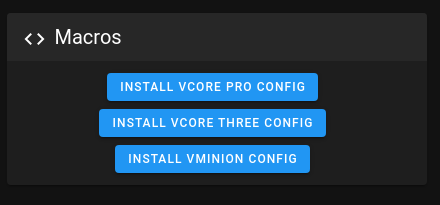
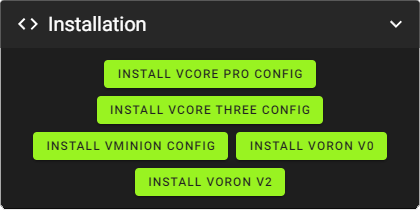
Docs: Update installation and configuration

diff --git a/site/docs/configuration.md b/site/docs/configuration.md
@@ -11,33 +11,33 @@ RatOS only needs minimal configuration to work, but comes with a lot of optional
 
 Once you have completed the initial [setup](installation) and opened [http://RatOS.local/](http://RatOS.local/) in your browser, you are almost ready to print. There's a just a few things to go over to make sure the configuration matches your particular setup.
 
-## Mainsail
-
-Mainsail is the control interface for your printer. Mainsail is a web application that talks to Klipper through Moonraker (the Klipper API). Mainsail is what you'll be using to start prints, monitor progress, configure klipper and much more. Mainsail is what you see when you open [http://RatOS.local/](http://RatOS.local/);
-
-![Mainsail](/img/mainsail.png)
-
-:::info
-To learn more about mainsail, [read the mainsail documentation](https://docs.mainsail.xyz/).
-:::
-
 ## Initial Configuration
 
-On the dashboard of Mainsail you'll see 3 macros in the Macros section.
+On the dashboard of Mainsail you'll see a macro group called "Installation", which consists of buttons that will install a specific printer configuration when you click them.
 
 ![Initial Config Macros](/img/initial-macros.png)
 
 Click on the button that corresponds to your printer to install the configuration.
 
 :::tip
-If you accidentally clicked the wrong button you can install another printer config by copying the contents of the template found in `config/templates/` and pasting it into printer.cfg.
+If you accidentally clicked the wrong button you can install another printer config by copying the contents of the template found in `config/templates/` and pasting it into printer.cfg. You can also do this to reset your configuration to the latest template file.
+:::
+
+:::tip Don't freak out if you get errors
+At this point we haven't told klipper anything about our hardware, if you're not using the default control board for your particular config, you'll get an MCU error. This is normal, continue below.
 :::
 
 Now navigate to the `Machine` page in Mainsail (the webinterface you just opened in your browser), there's a list of files, among them is `printer.cfg`. Right click it and choose "Edit". This is where your klipper configuration lives. As you can see, it's prepopulated with all you need to get your printer up and running quick and easy. **Follow the instructions in the file to make sure the configuration matches your setup.**
 
+:::info Are you still getting errors?
+If you're getting errors after going through printer.cfg, you either messed up the syntax (like, missing a `[section header]`), or your wiring isn't correct. If you get any MCU errors, turn off your MCU and go over your wiring again, you may be shorting something. **You already verified that your board is working and connecting when you flashed it in the RatOS configurator**.
+:::
+
 ## Verify Stepper Directions
 
-!> Do NOT use RatOS with other than stock steppers. If you are using different steppers please make sure to check their rating, and configure their currents accordingly ([see Includes & Overrides](#includes-amp-overrides)).
+:::caution Only use supported steppers
+Do NOT use RatOS with other than supported steppers (will be listed in printer.cfg). If you are using different steppers please make sure to check their rating, and configure their currents accordingly ([see Includes & Overrides](#includes-amp-overrides)).
+:::
 
 Make sure your steppers are running in the correct direction. To do this, center all your axes by moving the carriage and bed manually, then type `SET_CENTER_KINEMATIC_POSITION` in the console. You can now use the Mainsail controls to move the axes. Check that your bed moves down when Z is **increased**. By default, the Z controls in the Mainsail interface will increase Z when you click the up arrow. This will lower the bed on a CoreXY machine with a moving bed such as the V-Core 3, and raise the X gantry on a bedslinger such as the V-Minion or V-Cast. If your bed does not move down (or your x gantry doesn't raise) when you click the up arrow, change the direction of your Z steppers in printer.cfg. There's instructions on how to do that at the top of printer.cfg.
 
@@ -67,26 +67,18 @@ If you're using a third party printer (ie. not Rat Rig), you should calibrate yo
 The z-offset is the distance in Z between your probe's trigger point and your nozzle in gcode space. This is typically within 0-4mm, if you get a larger value or a negative value, something is wrong, and you should investigate further.
 :::
 
-## Updating
-
-In the `MACHINE` tab in Mainsail, you'll see a sheet with the title "Update Manager", if you're familiar with Fluidd or Mainsail, you'll notice a new entry called `RatOS`. This `RatOS` package will update all the config files in the config folder, improvements, support for hotends, macros, extruders, new boards etc, will be coming to your printer this way in the future. **Be sure to keep this up to date, especially if you update klipper**.
-
-In general, it's advisable to keep all your packages up to date, but if you're happy with how your printer works and there's nothing interesting to you in the updates, it's OK to delay updating until a later time. Klipper is a rapdily evolving project, that also means that bugs _do happen_, they're usually fixed very quickly, but if you have a bunch of important prints coming up, maybe delay the updates till afterwards.
-
-### Update
-
-Now that we've gotten that out of the way, please go ahead and update everything to the latest version, starting with the `RatOS` package.
-
 ## Tuning
 
 When you've verified that everything works, and you have your [slicer configured](slicers) to use the `START_PRINT` and `END_PRINT` macros, you can now start tuning. Refer to the klipper documentation for [PID Tuning](https://www.klipper3d.org/Config_checks.html#calibrate-pid-settings), [Pressure Advance tuning](https://www.klipper3d.org/Pressure_Advance.html), [manual Input Shaper calibration](https://www.klipper3d.org/Resonance_Compensation.html) or [automatic Input Shaper calibration via an ADXL345](https://www.klipper3d.org/Measuring_Resonances.html), and [Skew Correction](https://www.klipper3d.org/Skew_Correction.html) respectively.
 
-:::info Using an accelerometer (ADXL345)
+### Using an accelerometer (ADXL345)
+
+:::info
 See the wiring diagram for your board on how to connect your ADXL345, RatOS primarily uses an SPI connection on the MCU itself instead of the RPi, for ease of use. Some printers may require more than one ADXL345, and in that case a config for the ADXL345 connected to the Raspberry Pi is also available.
+:::
 
-If you want to use an ADXL345 for automatic input shaper calibration, all the software you need is already preinstalled on the pi, you just need to wire and map the pins for your ADXL345, and you're good to go.
+If you want to use an ADXL345 for automatic input shaper calibration, all the software you need is already preinstalled in RatOS you just need to wire up your ADXL345, and you're good to go.
 
-To enable resonance testing, uncomment the adxl include section at the top of printer.cfg. To verify that your ADXL is properly connected, write MEASURE_AXES_NOISE in the Fluidd console, if the values are below 100, you're good to go. To calibrate input shaper, write SHAPER_CALIBRATE in the console.
+To enable resonance testing, uncomment the `[resonance_tester]` header, along with the coordinates for your printer in the `PRINTER CONFIGURATION` section in printer.cfg. To verify that your ADXL is properly connected, write MEASURE_AXES_NOISE in the Mainsail console, if the values are below 100, you're good to go. To calibrate input shaper, write SHAPER_CALIBRATE in the console. If you're using a CoreXY machine, you may find the `MEASURE_COREXY_BELT_TENSION` macro handy for checking if your belts are equally tensioned (the peaks in the resulting graphs should line up with each other). You can also use `GENERATE_SHAPER_GRAPHS` to generate resonance graphs on all printers for deeper analysis of your printers resonance profile.
 
 For more information on automatic input shaper calibration, check out the official klipper documentation.
-:::

diff --git a/site/docs/installation.md b/site/docs/installation.md
@@ -28,27 +28,27 @@ Alternatively, if you're using a pi with Ethernet, you can use an ethernet cable
 It is heavily recommended that you flash your board and make sure it is detected in the configurator **before** your start connecting your wiring.
 :::
 
-After completing the wifi setup wizard, wait a couple of minutes, then open [http://RatOS.local/configure?step=1](http://RatOS.local/configure?step=1) in your browser (or whatever hostname you chose during setup). Complete the wizard to flash your control board and optionally a toolboard. When you've done that successfully, the configurator will lead you to Mainsail where you can install your printer config and start editing printer.cfg to match your hardware. You can now complete your wiring. Click the links below to see the wiring diagram for your board.
+After completing the wifi setup wizard, wait a couple of minutes, then open [http://RatOS.local/configure?step=1](http://RatOS.local/configure?step=1) in your browser (or whatever hostname you chose during setup). Complete the wizard to flash your control board and optionally a toolboard. When you've done that successfully, the configurator will lead you to Mainsail, which we'll now use to update RatOS and related packages to the latest version.
 
-[BIGTREETECH Octopus v1.1](boards/btt/octopus-11.md)
+## Mainsail
 
-[BIGTREETECH Octopus Pro 446](boards/btt/octopus-pro-446.md)
+Mainsail is the control interface for your printer. Mainsail is a web application that talks to Klipper through Moonraker (the Klipper API). Mainsail is what you'll be using to start prints, monitor progress, configure klipper and much more. Mainsail is what you see when you open [http://RatOS.local/](http://RatOS.local/)
 
-[BIGTREETECH Octopus Pro 429](boards/btt/octopus-pro-429.md)
+![Mainsail](/img/mainsail.jpg)
 
-[BIGTREETECH SKR Pro v1.2](boards/btt/skr-pro-12.md)
-
-[BIGTREETECH SKR 2](boards/btt/skr-2-429.md)
-
-[Fysetc Spider v1.1](boards/fysetc/spider-11.md)
+:::info
+To learn more about mainsail, [read the mainsail documentation](https://docs.mainsail.xyz/).
+:::
 
 ## Updating
 
-After you've configured your printer.cfg and everything is working, go to the `MACHINE` tab in Mainsail. You'll see a sheet with the title "Update Manager", if you're familiar with Fluidd or Mainsail, you'll notice a new entry called `RatOS`. This `RatOS` package will update all the config files in the config folder, improvements, support for hotends, macros, extruders, new boards etc, will be coming to your printer this way in the future. **Be sure to keep this up to date, especially if you update klipper or moonraker**. Always update the RatOS package first, before updating anything else. This is important because Klipper and Moonraker sometimes make changes that require manual system or configuration changes which RatOS will try to do for you.
+Go to the `MACHINE` tab in Mainsail. You'll see a sheet with the title "Update Manager", if you're familiar with Fluidd or Mainsail, you'll notice a new entry called `RatOS`. This `RatOS` package will update all the config files in the config folder, improvements, support for hotends, macros, extruders, new boards etc, will be coming to your printer this way in the future. **Be sure to keep this up to date, especially if you update klipper or moonraker**. Always update the RatOS package first, before updating anything else. This is important because Klipper and Moonraker sometimes make changes that require manual system or configuration changes which RatOS will try to do for you.
 
-In case your board fails to flash automatically, you can always go back to the [http://RatOS.local/configure?step=1](http://RatOS.local/configure?step=1) to flash your board if necessary. If you get a klipper error mentioning mcu and hosts versions, this means you need to flash your board.
+Go ahead an update all the packages to their latest versions, start with RatOS, then click `Update All Components`. When you update klipper, RatOS will attempt to flash your board automatically. If this fails (which should be rare), you can always go back to the [http://RatOS.local/configure?step=1](http://RatOS.local/configure?step=1) to flash your board if necessary. If you get a klipper error mentioning mcu and host versions, this means you need to flash your board.
 
-In general, it's advisable to keep all your packages up to date, but if you're happy with how your printer works and there's nothing interesting for you in the updates, it's perfectly fine to delay updating until a later time. Klipper is a continually evolving project, that also means that bugs _do happen_. In the rare circumstance that bugs are introduced, they're usually fixed very quickly, but if you have a bunch of important prints coming up, maybe delay the updates till afterwards. Now that we've gotten that out of the way, **please go ahead and update RatOS to the latest version**.
+In general, it's advisable to keep all your packages up to date, but if you're happy with how your printer works and there's nothing interesting for you in the updates, it's perfectly fine to delay updating until a later time. Klipper is a continually evolving project, that also means that bugs _do happen_. In the rare circumstance that bugs are introduced, they're usually fixed very quickly, but if you have a bunch of important prints coming up, maybe delay the updates untill afterwards.
+
+Now it's time to start wiring. Find your board under "Supported Boards" in the docs menu to the left, and return to the next step below when you've completed your wiring.
 
 ## Setup
 
